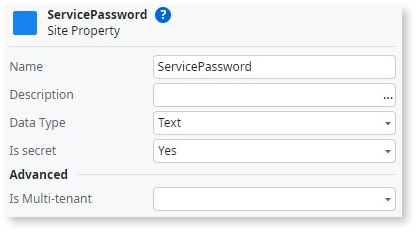
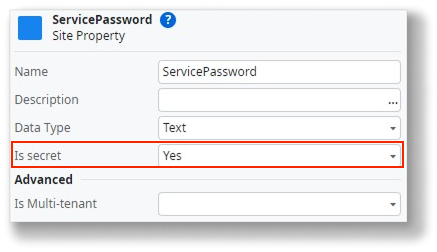
TK-21926 -  Clarify is secret of site properties

diff --git a/src/ref/lang/auto/class-site-property.md b/src/ref/lang/auto/class-site-property.md
@@ -6,7 +6,9 @@ app_type: traditional web apps, mobile apps, reactive web apps
 platform-version: o11
 figma: https://www.figma.com/file/eFWRZ0nZhm5J5ibmKMak49/Reference?node-id=1526:2630
 summary: Explore how OutSystems 11 (O11) utilizes site properties to manage global variables and integrate secure data handling in applications.
-tags: global variables, data management, application configuration, security, ide usage, reactive web apps
+tags:
+  - Security
+  - Site Properties
 audience:
   - Developer
   - Front-end developer
@@ -114,61 +116,11 @@ If you change a site property from secret to non-secret or vice-versa, the effec
 
 ## Properties
 
-<table markdown="1">
-<thead>
-<tr>
-<th>Name</th>
-<th>Description</th>
-<th>Mandatory</th>
-<th>Default value</th>
-<th>Observations</th>
-</tr>
-</thead>
-<tbody>
-<tr>
-<td title="Name">Name</td>
-<td>Identifies an element in the scope where it is defined, like a screen, action, or module</td>
-<td>Yes</td>
-<td></td>
-<td></td>
-</tr>
-<tr>
-<td title="Description">Description</td>
-<td>Text that documents the element</td>
-<td></td>
-<td></td>
-<td>Useful for documentation purposes.<br/>The maximum size of this property is 2000 characters.</td>
-</tr>
-<tr>
-<td title="Data Type">Data Type</td>
-<td>The data type of the site property</td>
-<td>Yes</td>
-<td></td>
-<td></td>
-</tr>
-<tr>
-<td title="Is Secret">Is Secret</td>
-<td>Encrypts and protects the value</td>
-<td></td>
-<td>No</td>
-<td>A site property with the Is Secret property enabled does not have  a default value. When a secret site property is published for the first time, its effective value is empty and must be set in Service Center.</td>
-</tr>
-<tr>
-<td title="Default Value">Default Value</td>
-<td>Initial value of this element. If undefined, the default value of the data type is used.</td>
-<td></td>
-<td></td>
-<td>Does not apply to site properties that have the Is Secret property enabled.</td>
-</tr>
-<tr >
-<th colspan="5">Advanced</th>
-</tr>
-<tr>
-<td title="Is Multi-tenant">Is Multi-tenant</td>
-<td>Set to Yes to enable muti-tenancy for this specific element. Overrides the multi-tenancy definitions inherited from the module.</td>
-<td>Yes</td>
-<td></td>
-<td></td>
-</tr>
-</tbody>
-</table>
+| Name | Description | Mandatory | Default value | Observations |
+| --- | --- | --- | --- | --- |
+| Name | Identifies an element in the scope where it is defined, like a screen, action, or module | Yes | | |
+| Description | Text that documents the element | No | | Useful for documentation purposes. The maximum size of this property is 2000 characters. |
+| Data Type | The data type of the site property | Yes | | |
+| Is Secret | Encrypts the value at rest and masks it in management consoles. Once set, the value can't be retrieved or displayed. Use this for passwords, tokens, and other sensitive configuration values. | | No | A site property with the Is Secret property enabled doesn't have a default value. When a secret site property is published for the first time, its effective value is empty and must be set in Service Center. |
+| Default Value | Initial value of this element. If undefined, the default value of the data type is used. | No | | Does not apply to site properties that have the Is Secret property enabled. |
+| Is Multi-tenant | Set to Yes to enable multi-tenancy for this specific element. Overrides the multi-tenancy definitions inherited from the module. | No | | |